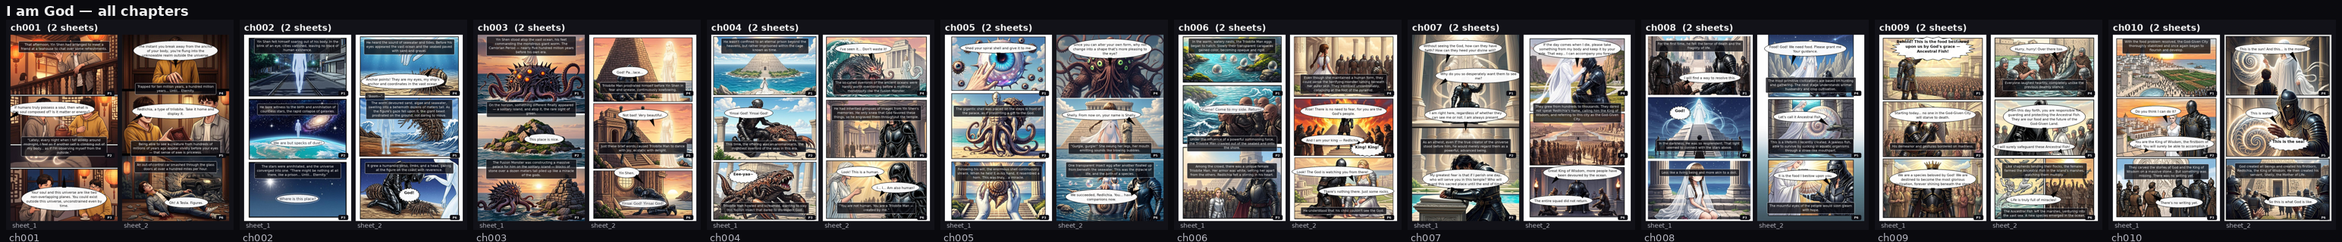
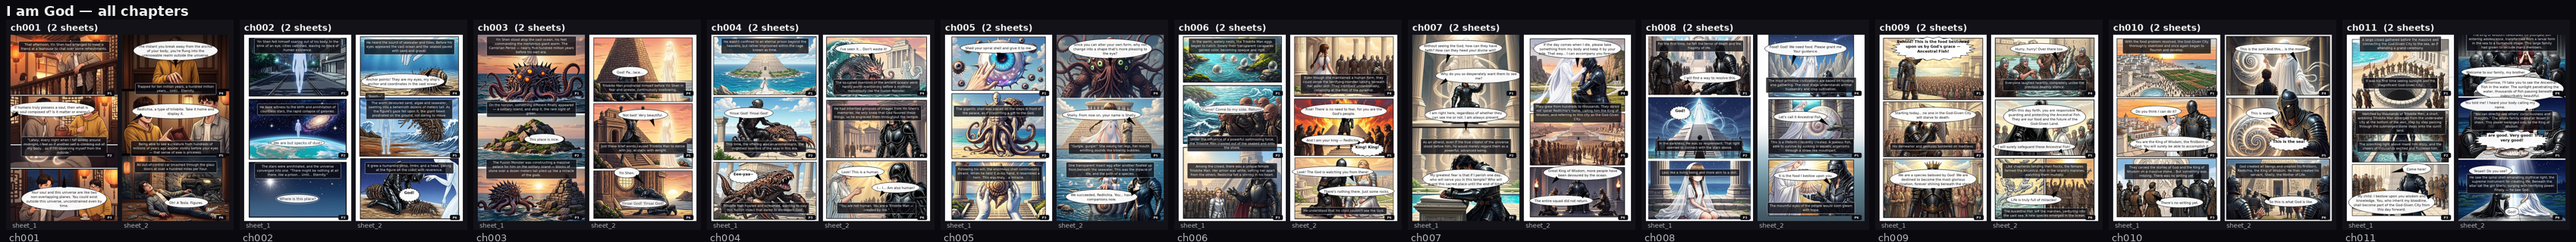
Extend adaptation to ch011 'Do You See?' (2 sheets / 6 pages): well ceremony, Yesael's mind-reading gift, first temple vision; fix ch011 element coordinates to global strip space; enforce locked designs (encased three-lobed helmets, faceless god, Shelly's gauzy cloak)

diff --git a/pipeline/plans/ch011.py b/pipeline/plans/ch011.py
@@ -1,0 +1,39 @@
+# Chapter 11 — Do You See? (verbatim adaptation)
+PLAN = {
+    "chapter": 11,
+    "title": "Do You See?",
+    "palette": "city",
+    "sheets": [
+        {
+            "sheet": 1,
+            "pages": [
+                {"page": 1, "art": "Elevated wide shot: a vast festive crowd of @tmen@ gathered around a massive circular stone well at the heart of the sunlit white city-state, each wearing chitin plate armor and a three-lobed trilobite bone helmet shaped like a trilobite shell, the well shaft plunging down toward the sea, banners and ceremony atmosphere, teal water sparkling beyond the city walls",
+                 "els": [{"kind": "narration", "text": "A large crowd gathered before the massive well connecting the God-Given City to the sea, as if attending a grand ceremony.", "cx": 0.5, "cy": 0.05},
+                          {"kind": "narration", "text": "It was his first time seeing sunlight and the magnificent God-Given City.", "cx": 0.5, "cy": 0.26}]},
+                {"page": 2, "art": "The short young trilobite man — a SMALL figure, his head fully encased in a smooth dark three-lobed trilobite bone helmet shaped like a trilobite shell, no face visible, dark chitin plate armor dripping with seawater — wobbling as he steps off the submerged stone steps inside the great well onto the sunlit plaza, dazzled and flustered, thousands of @tmen@ in trilobite helmets cheering around the well rim",
+                 "els": [{"kind": "narration", "text": "Watched by thousands of Trilobite Men, a short, wobbling Trilobite Man emerged from the underwater city at the bottom of the well, step by step passing through the submerged stone steps onto the sunlit land.", "cx": 0.5, "cy": 0.47},
+                          {"kind": "narration", "text": "The scorching light above made him dizzy, and the cheers of thousands excited and flustered him.", "cx": 0.5, "cy": 0.60}]},
+                {"page": 3, "art": "@redlichia@ — his head fully encased in the dark three-lobed trilobite bone helmet shaped like a trilobite shell with a carved stone crown set upon it, no face visible — clad in glossy black chitin plate armor, reaching his hand down from above, the SMALL young trilobite man in dark chitin armor and small three-lobed helmet kneeling before him on the stone plaza, the silent crowd of @tmen@ witnessing in awe, solemn sacred light",
+                 "els": [{"kind": "say", "text": "Come here!", "cx": 0.65, "cy": 0.72, "tx": 0.38, "ty": 0.755},
+                          {"kind": "say", "text": "My child. I bestow upon you wisdom and knowledge. You, who inherit my bloodline, shall become part of the God-Given City from this day forward.", "cx": 0.38, "cy": 0.90, "tx": 0.56, "ty": 0.86}]},
+            ],
+        },
+        {
+            "sheet": 2,
+            "pages": [
+                {"page": 4, "art": "Palace feast: @redlichia@ and the @queen@ heading a long stone table with @afish@ dishes, their armored children around a small youngest brother, every head encased in a three-lobed helmet",
+                 "els": [{"kind": "narration", "text": "The King of Wisdom celebrated his youngest son entering adolescence, transformed from a larval form in the sea to a humanoid shape. This large family had grown to include many members.", "cx": 0.5, "cy": 0.035},
+                          {"kind": "say", "text": "Welcome to our family, my brother.", "cx": 0.35, "cy": 0.20, "tx": 0.20, "ty": 0.26},
+                          {"kind": "say", "text": "Tomorrow, I'll take you to see the Ancestral Fish in the water. The sunlight penetrating the water, thousands of fish passing beneath — indescribably beautiful.", "cx": 0.66, "cy": 0.29, "tx": 0.76, "ty": 0.34}]},
+                {"page": 5, "art": "The small armored boy speaking at the table, the @queen@ covering her mouth in amazement, @redlichia@ risen and laughing with overwhelming joy, all in chitin plate armor and three-lobed helmets",
+                 "els": [{"kind": "say", "text": "You told me! I heard your body calling my name.", "cx": 0.35, "cy": 0.375, "tx": 0.50, "ty": 0.44},
+                          {"kind": "narration", "text": "\"You can directly see others' consciousness and thoughts.\" The whole family stared at Yesael in shock. This power belonged only to the King of Wisdom.", "cx": 0.5, "cy": 0.46},
+                          {"kind": "roar", "text": "You are good. Very good! Truly very good!", "cx": 0.5, "cy": 0.565}]},
+                {"page": 6, "art": "Pyramid peak: @redlichia@ and his small young son kneeling at the temple threshold, a giant spiral shell glowing on the stone altar, the small girl @shelly@ in her flowing white gauzy cloak seated beneath it, @god@ radiating starry brilliance",
+                 "els": [{"kind": "say", "text": "Yesael! Do you see?", "cx": 0.30, "cy": 0.73, "tx": 0.40, "ty": 0.87},
+                          {"kind": "narration", "text": "He saw the spiral shell emanating mythical light, the supreme instrument for creating life. Beneath the altar sat the girl Shelly, surging with terrifying power. Finally — he saw God.", "cx": 0.5, "cy": 0.80},
+                          {"kind": "echo", "text": "God!", "cx": 0.5, "cy": 0.95}]},
+            ],
+        },
+    ],
+}

diff --git a/pipeline/make_adaptation_doc.py b/pipeline/make_adaptation_doc.py
@@ -39,7 +39,7 @@ def load_plans():
 def main():
     plans = load_plans()
     lines = [
-        "# I am God — Adaptation Plan (Chapters 1-10)",
+        "# I am God — Adaptation Plan (Chapters 1-{})".format(plans[-1]["chapter"] if plans else 0),
         "",
         "Source: *I am God* (web novel, 458 chapters). This document records the chapter-by-chapter",
         "adaptation produced so far. Each generated image is a vertical strip of **3 manga pages**;",

diff --git a/I am God/ADAPTATION.md b/I am God/ADAPTATION.md
@@ -1,4 +1,4 @@
-# I am God — Adaptation Plan (Chapters 1-10)
+# I am God — Adaptation Plan (Chapters 1-11)
 
 Source: *I am God* (web novel, 458 chapters). This document records the chapter-by-chapter
 adaptation produced so far. Each generated image is a vertical strip of **3 manga pages**;
@@ -33,7 +33,7 @@ English translation. Generated art is **zero-text**; all lettering is overlaid p
 |---|---|---|---|---|---|
 | 1 | The Observer Unbound by Time | teahouse | 2 | 6 | complete |
 | 2 | We Too Shall Inevitably Fade Away | cosmos | 2 | 6 | complete |
-| 3 | The Era of Life's Origin | island | 2 | 6 | 1/2 sheets |
+| 3 | The Era of Life's Origin | island | 2 | 6 | complete |
 | 4 | Wisdom and Life | temple | 2 | 6 | complete |
 | 5 | Shelly, the Fusion Monster | temple | 2 | 6 | complete |
 | 6 | Species and King | city | 2 | 6 | complete |
@@ -41,6 +41,7 @@ English translation. Generated art is **zero-text**; all lettering is overlaid p
 | 8 | Ancestral Fish | city | 2 | 6 | complete |
 | 9 | Food and a New Species | city | 2 | 6 | complete |
 | 10 | Writing and Mythology | city | 2 | 6 | complete |
+| 11 | Do You See? | city | 2 | 6 | complete |
 
 ## Page-by-page breakdown
 
@@ -285,4 +286,33 @@ English translation. Generated art is **zero-text**; all lettering is overlaid p
 - **P6** — The towering white stele erected before the city gates, covered in pictograms and carved characters beneath relief scenes; a crowd of @tmen@ looking up in awe, some reaching out to touch the symbols
   - `narration`: "God created all beings and created his firstborn, Redlichia, the King of Wisdom. He then created his servant, Shelly, the Mother of Life."
   - `say`: "So this is what God is like."
+
+### Chapter 11 — Do You See?  (palette: city)
+
+**Sheet 1**
+
+- **P1** — Elevated wide shot: a vast festive crowd of @tmen@ gathered around a massive circular stone well at the heart of the sunlit white city-state, each wearing chitin plate armor and a three-lobed trilobite bone helmet shaped like a trilobite shell, the well shaft plunging down toward the sea, banners and ceremony atmosphere, teal water sparkling beyond the city walls
+  - `narration`: "A large crowd gathered before the massive well connecting the God-Given City to the sea, as if attending a grand ceremony."
+  - `narration`: "It was his first time seeing sunlight and the magnificent God-Given City."
+- **P2** — The short young trilobite man — a SMALL figure, his head fully encased in a smooth dark three-lobed trilobite bone helmet shaped like a trilobite shell, no face visible, dark chitin plate armor dripping with seawater — wobbling as he steps off the submerged stone steps inside the great well onto the sunlit plaza, dazzled and flustered, thousands of @tmen@ in trilobite helmets cheering around the well rim
+  - `narration`: "Watched by thousands of Trilobite Men, a short, wobbling Trilobite Man emerged from the underwater city at the bottom of the well, step by step passing through the submerged stone steps onto the sunlit land."
+  - `narration`: "The scorching light above made him dizzy, and the cheers of thousands excited and flustered him."
+- **P3** — @redlichia@ — his head fully encased in the dark three-lobed trilobite bone helmet shaped like a trilobite shell with a carved stone crown set upon it, no face visible — clad in glossy black chitin plate armor, reaching his hand down from above, the SMALL young trilobite man in dark chitin armor and small three-lobed helmet kneeling before him on the stone plaza, the silent crowd of @tmen@ witnessing in awe, solemn sacred light
+  - `say`: "Come here!"
+  - `say`: "My child. I bestow upon you wisdom and knowledge. You, who inherit my bloodline, shall become part of the God-Given City from this day forward."
+
+**Sheet 2**
+
+- **P4** — Palace feast: @redlichia@ and the @queen@ heading a long stone table with @afish@ dishes, their armored children around a small youngest brother, every head encased in a three-lobed helmet
+  - `narration`: "The King of Wisdom celebrated his youngest son entering adolescence, transformed from a larval form in the sea to a humanoid shape. This large family had grown to include many members."
+  - `say`: "Welcome to our family, my brother."
+  - `say`: "Tomorrow, I'll take you to see the Ancestral Fish in the water. The sunlight penetrating the water, thousands of fish passing beneath — indescribably beautiful."
+- **P5** — The small armored boy speaking at the table, the @queen@ covering her mouth in amazement, @redlichia@ risen and laughing with overwhelming joy, all in chitin plate armor and three-lobed helmets
+  - `say`: "You told me! I heard your body calling my name."
+  - `narration`: ""You can directly see others' consciousness and thoughts." The whole family stared at Yesael in shock. This power belonged only to the King of Wisdom."
+  - `roar`: "You are good. Very good! Truly very good!"
+- **P6** — Pyramid peak: @redlichia@ and his small young son kneeling at the temple threshold, a giant spiral shell glowing on the stone altar, the small girl @shelly@ in her flowing white gauzy cloak seated beneath it, @god@ radiating starry brilliance
+  - `say`: "Yesael! Do you see?"
+  - `narration`: "He saw the spiral shell emanating mythical light, the supreme instrument for creating life. Beneath the altar sat the girl Shelly, surging with terrifying power. Finally — he saw God."
+  - `echo`: "God!"
 
